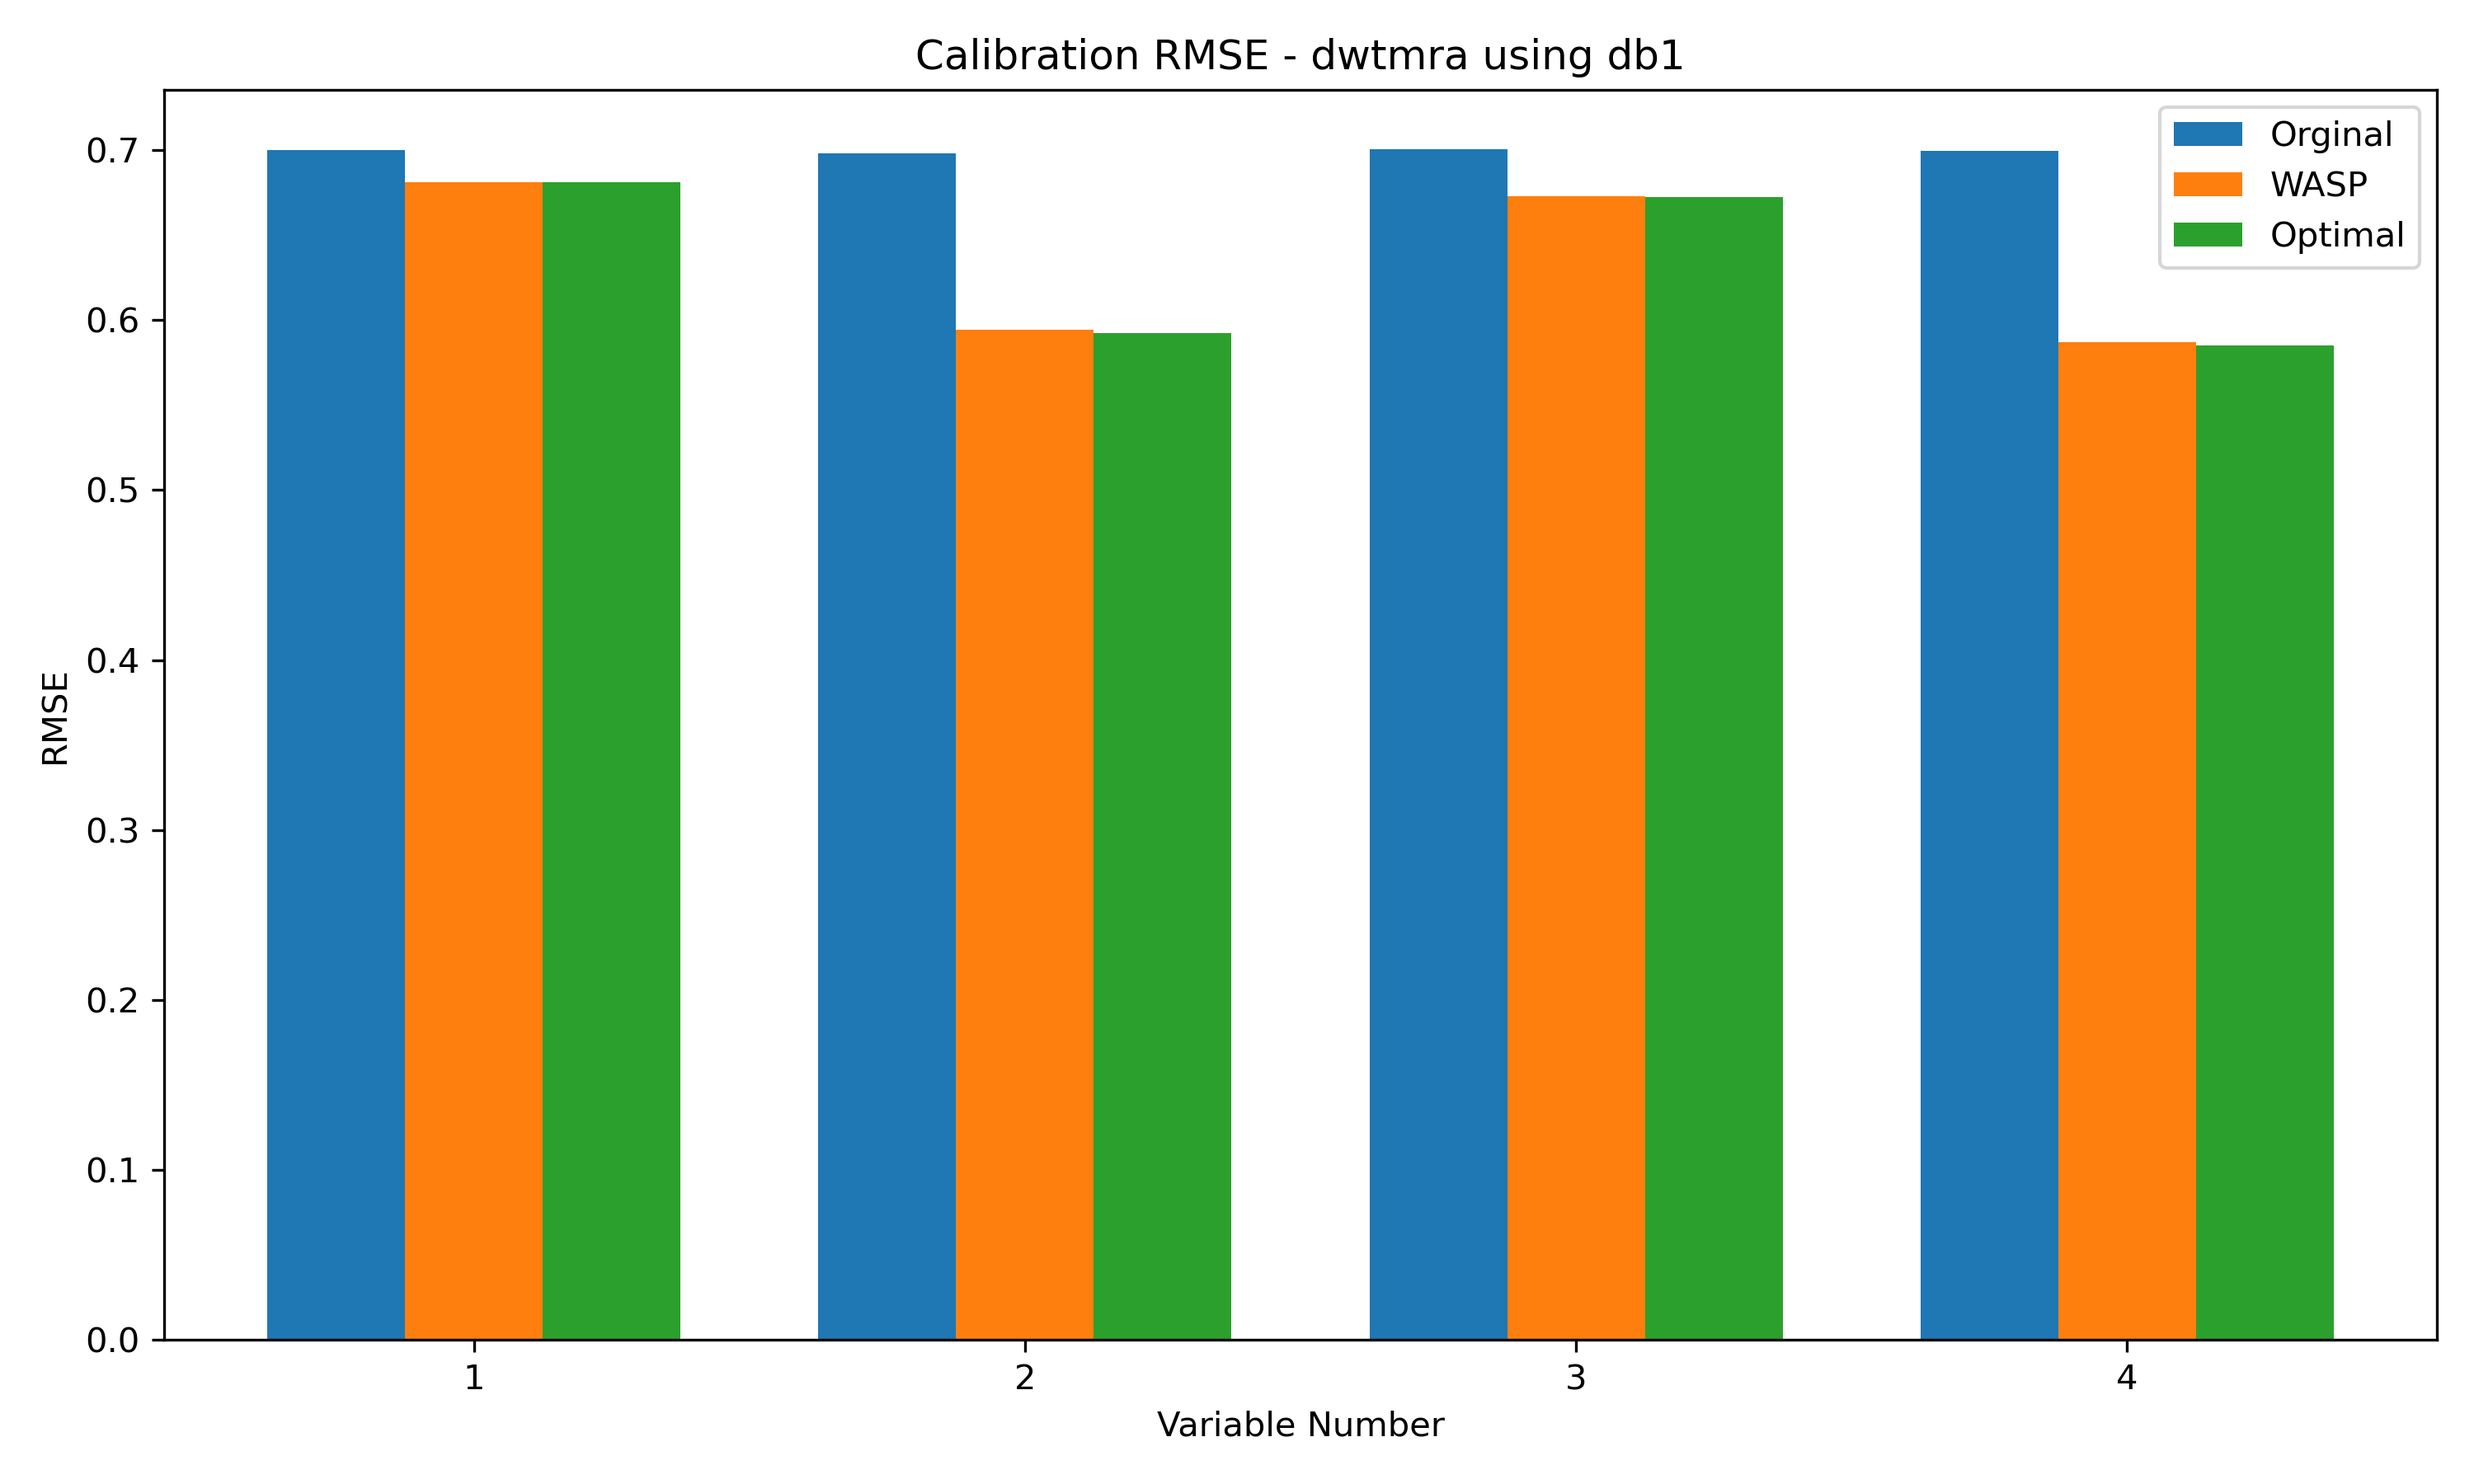
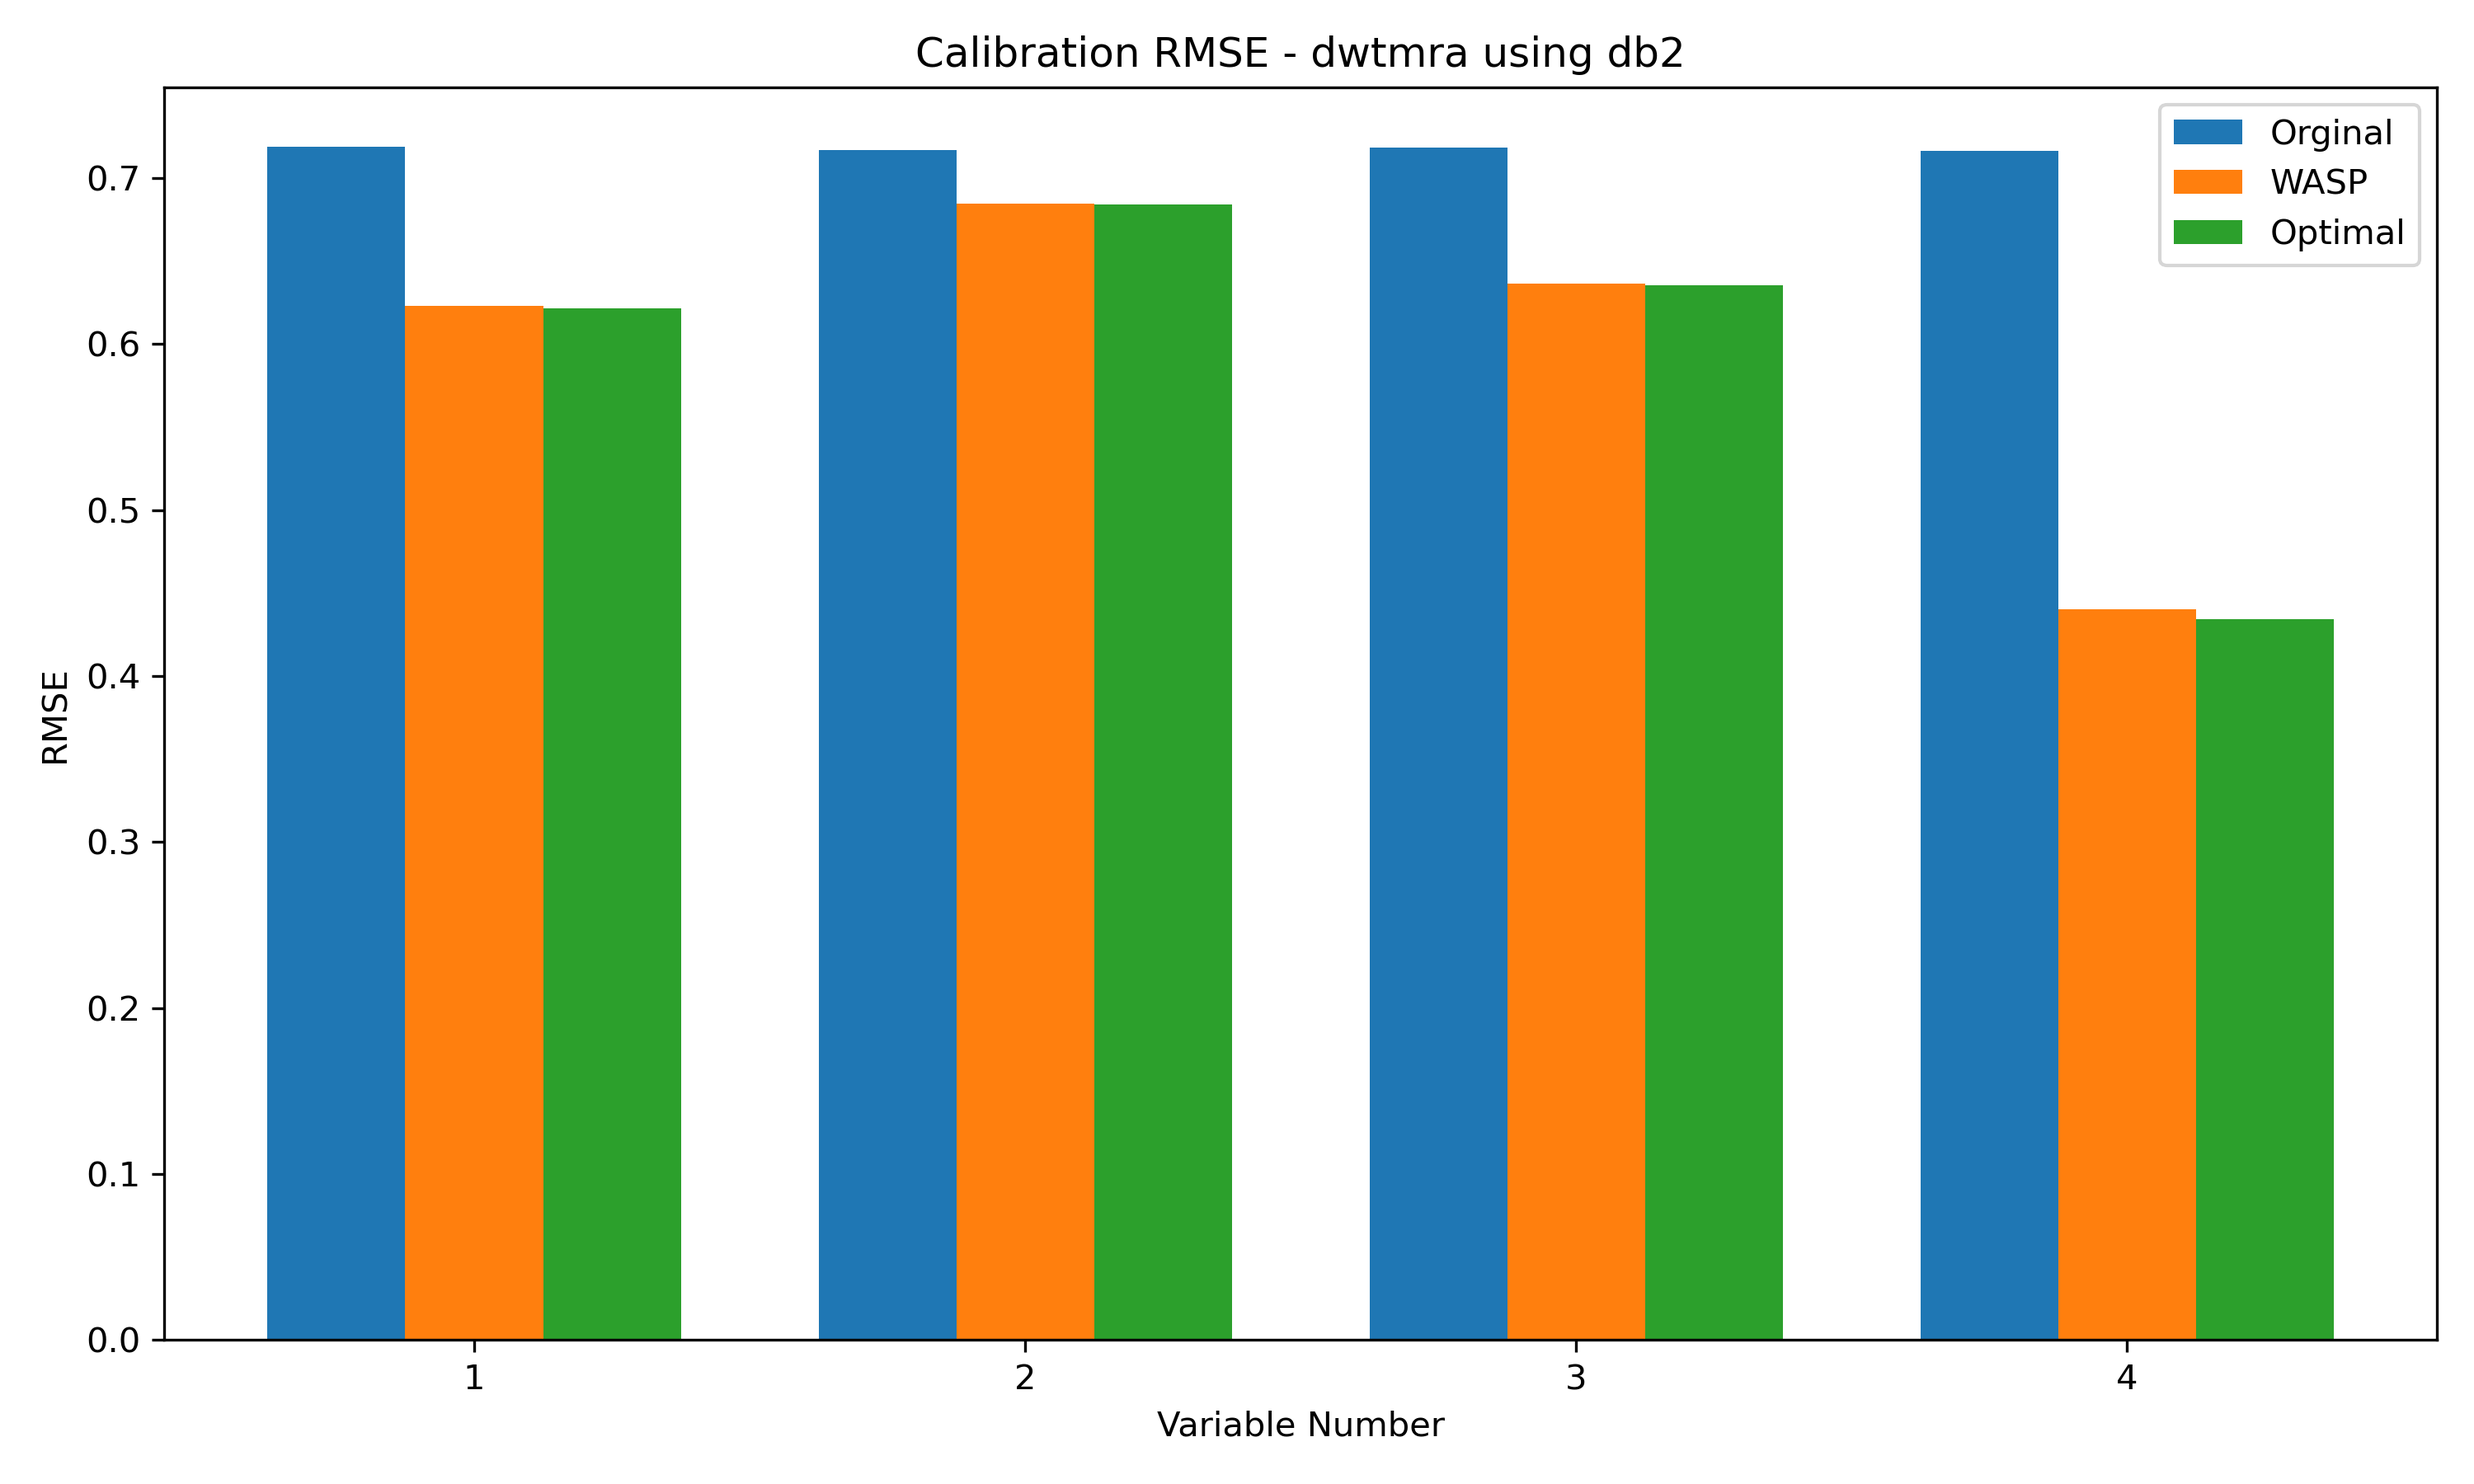
Update example1

diff --git a/example1_wasp_forecast.py b/example1_wasp_forecast.py
@@ -2,6 +2,7 @@ import numpy as np
 import matplotlib.pyplot as plt
 from wasp import wasp
 from wasp_val import wasp_val
+import pywt
 
 # === Parameters ===
 N = 128
@@ -11,6 +12,10 @@ fs = 50
 dt = 1 / fs
 t = np.arange(0, N + N_fc) * dt
 
+# Set seed for reproducibility
+seed = 20250425  # You can choose any integer
+np.random.seed(seed)
+
 # === Synthetic Data ===
 Y_ALL = (np.sin(2 * np.pi * t + np.random.randn(1)) + 0.1 * np.random.randn(len(t))).flatten()
 X = np.random.randn(N + N_fc, n_var)
@@ -18,11 +23,19 @@ Y = Y_ALL[:N]
 Y_val = Y_ALL[N:]
 
 # === Wavelet Settings ===
-n_vanish = 1
+n_vanish = 2
 wname = f'db{n_vanish}'
-flag_sign = True
+flag_sign = True # Sign correction
 method = 'dwtmra'
-lev = int(np.floor(np.log2(X.shape[0])) - 1)
+
+# === Decomposition level ===
+# maximum decomposition level: floor(log2(size(X,1)))
+# or rule of thumb decomposition level: ceiling(log(n/(2*v-1))/log(2))-1 (Kaiser, 1994)
+# lev = int(np.floor(np.log2(X.shape[0])) - 1)
+lev = int(np.ceil(np.log(X.shape[0] / (2 * n_vanish - 1)) / np.log(2))) - 1
+# max_level = pywt.dwt_max_level(X.shape[0], pywt.Wavelet(wname).dec_len)  
+# print(max_level)
+print("Decomposition level: ", lev)
 
 # === WASP Transformation ===
 X_WaSP, C = wasp(Y, X, method=method, wavelet_name=wname, level=lev, flag_sign=flag_sign)
